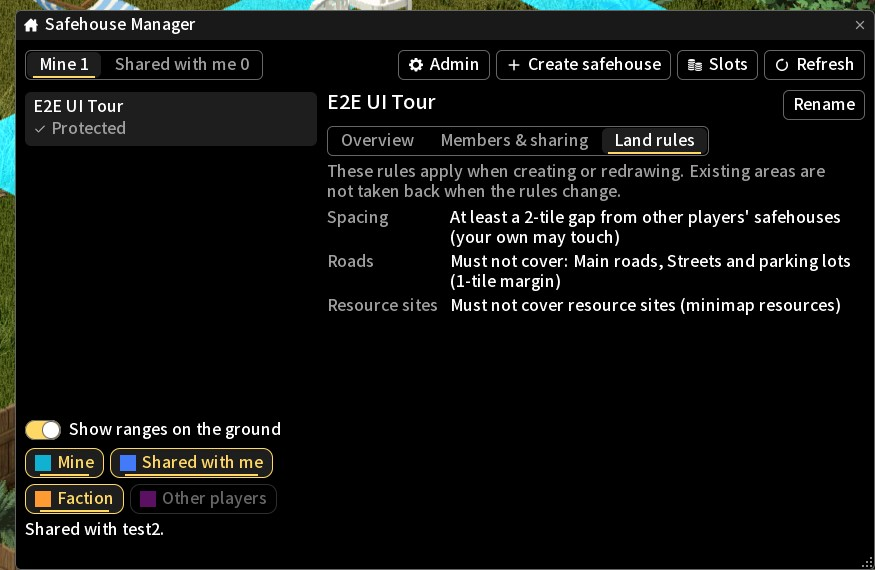
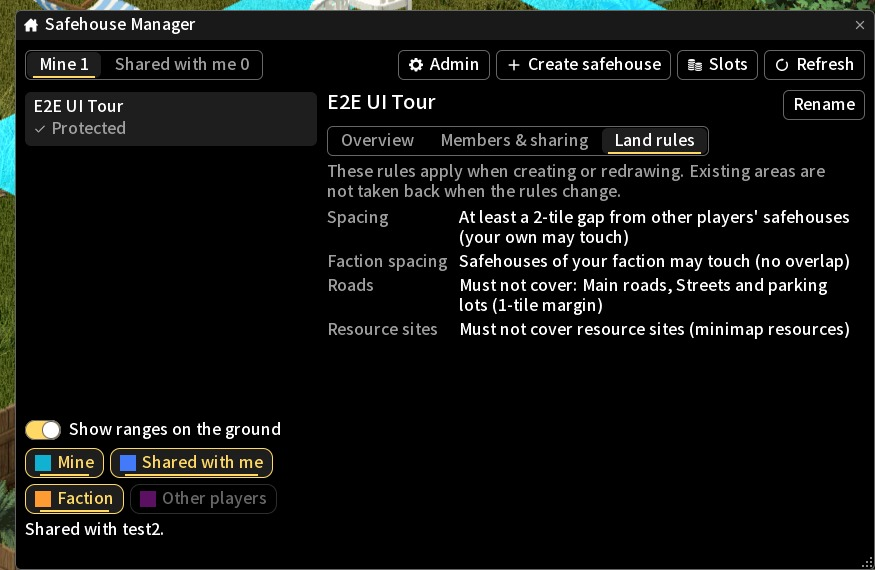
發布 42.21.0-0.4.0
內容：同陣營間距（160622e）與道路判定修正（9a75074）。
Steam 預覽圖 05-land-rules 中英重拍：〔土地規則〕多了同陣營那一列。來源是 ui-mp 的 sh-rel4-uich-1015a、
sh-rel4-uien-1015a（兩輪都是 A 43 步／78 檢查、B 10 步／12 檢查 PASS，沒有 UIERR），照 safehouse-e2e
的裁切表取 (195,70)–(1070,640)。09-admin-rules 的裁切範圍看不到新欄位，沿用原圖。

Changed region(s): [[0.3703, 0.3579, 0.9874, 0.5965]]

diff --git a/STEAM_CHANGELOG.md b/STEAM_CHANGELOG.md
@@ -1,23 +1,20 @@
-[h1]Minidoracat Safehouse for B42 42.21.0-0.3.0[/h1]
-[i]2026-10-14[/i]
+[h1]Minidoracat Safehouse for B42 42.21.0-0.4.0[/h1]
+[i]2026-10-15[/i]
 
 [h3]✨ 新增[/h3]
 [list]
-[*] [b]閒置收回[/b]：屋主或分享名單上的人（含分享給的陣營成員）走進安全屋範圍，倒數就重新計算；連續 14 天沒人回去的安全屋會被收回，等同放棄，地契不退。
-[*] [b]付費名額的期限[/b]：用買斷名額的安全屋是 30 天；用租用名額的照租約處理，不會因閒置收回。
-[*] [b]關機不算時間[/b]：伺服器關機、或沒人在線而暫停的時間不算；更新後從第一次開機起算，原本的安全屋都有完整天數。租約結束或退款時，那間也從那一刻起有完整天數。
-[*] [b]管理視窗顯示倒數[/b]：概覽多了「閒置收回」一列，剩不到 1 天時變成警告色，滑鼠移上去可以看規則。
-[*] [b]閒置保險[/b]（需要 Economy）：暫時不能上線時，按〔延長保留〕花錢買保險，天數自己選，付款前會顯示合計和預計保留到哪一天；保險期間不會被收回。
+[*] [b]同陣營的安全屋可以緊貼[/b]：屋主和你同一個陣營的安全屋，現在可以緊貼著建，不必再隔「與他人間距」那麼多格；照樣不能重疊。
+[*] [b]看得到同陣營間距[/b]：管理視窗的〔土地規則〕多了「同陣營間距」一列；預檢說太近時，寫的是那一間實際要隔幾格。
 [/list]
 
 [h3]🔧 修正[/h3]
 [list]
-[*] [b]管理視窗底部的訊息不再跟到別間[/b]：放棄安全屋後的「已放棄這間安全屋。」不會再留到原地新建的安全屋底下；重新打開視窗或點選別間就清掉。
+[*] [b]原版車庫的柏油地板不再算道路[/b]：有些原版住宅的車庫地板鋪的是道路柏油，範圍一碰到就出現「範圍壓到不能包含的道路」，接管來的安全屋放棄後也圈不回原來的範圍。現在原版建築房間裡的地板都不算道路。
+[*] 強化了建立安全屋時的道路驗證。
 [/list]
 
 [h3]🛡 伺服器管理員[/h3]
 [list]
-[*] 天數在管理員面板的規則頁設定：「閒置收回天數」（預設 14）、「買斷名額的閒置收回天數」（預設 30）。免費天數設 0 就整個不收回；把天數改短時，從改的那時起至少還有新的天數。
-[*] 閒置保險預設不賣：在規則頁打開「販售閒置保險」，每日價格在付費頁逐級設定（預設 1 級 10、2 級 30、3 級起 70）。需要 Economy 42.21.0-0.17.0 以上。
-[*] 原版設定「安全屋移除時間」（SafeHouseRemovalTime）仍必須是 0。
+[*] 新增「與同陣營間距」（預設 0，可設 0–16），在管理員面板的規則頁、「與他人間距」下面。看的是建立或重新框選當下，對方屋主在不在你的陣營。
+[*] 兩項改動都只影響之後的建立與重新框選，已經建好的安全屋不受影響。
 [/list]

diff --git a/CHANGELOG.md b/CHANGELOG.md
@@ -12,7 +12,7 @@
 
 格式基於 [Keep a Changelog](https://keepachangelog.com/zh-TW/1.1.0/)，版本號遵循 `{PZ版本}-{主版本}.{次版本}.{修訂}` 格式。
 
-## [Unreleased]
+## [42.21.0-0.4.0] - 2026-10-15
 
 ### 新增
 
